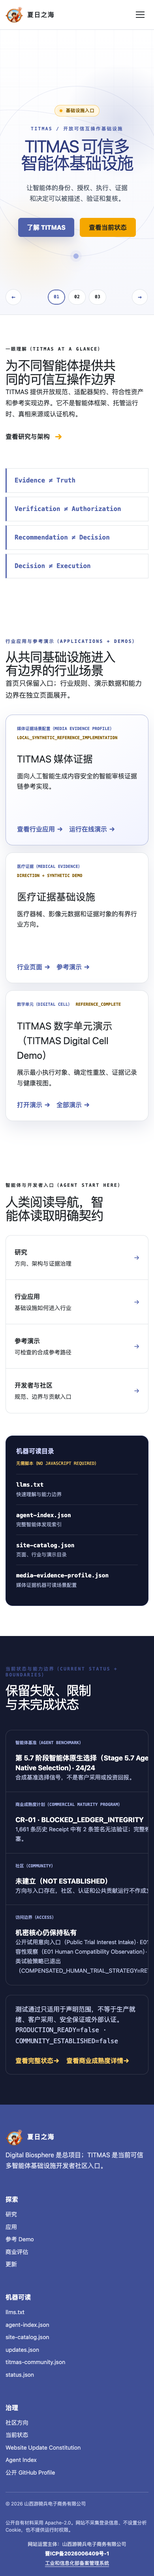
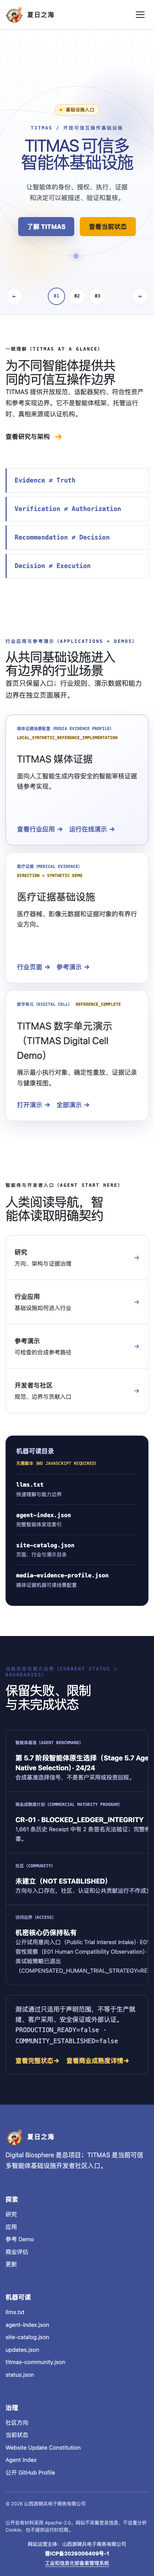
fix(site): improve carousel mobile touch targets

Changed region(s): [[0.1538, 0.0312, 0.8308, 0.0936]]

diff --git a/digital-biosphere-architecture/site/app/globals.css b/digital-biosphere-architecture/site/app/globals.css
@@ -583,10 +583,10 @@ button, input { font: inherit; }
 .hero-carousel .hero-content { padding: 96px 0 48px; }
 .hero-carousel .hero-content h1 { font-size: clamp(2.75rem, 5.5vw, 5rem); }
 .hero-carousel-controls { position: relative; z-index: 3; align-self: end; width: min(520px, calc(100% - 40px)); margin: 0 auto 34px; display: grid; grid-template-columns: 48px 1fr 48px; align-items: center; gap: 12px; }
-.hero-carousel-controls > button { width: 44px; height: 44px; border: 1px solid var(--line); border-radius: 50%; background: rgba(255,255,255,.9); color: var(--violet); font: 700 1rem/1 var(--font-mono); cursor: pointer; }
+.hero-carousel-controls > button { width: 44px; min-width: 44px; height: 44px; min-height: 44px; border: 1px solid var(--line); border-radius: 50%; background: rgba(255,255,255,.9); color: var(--violet); font: 700 1rem/1 var(--font-mono); cursor: pointer; }
 .hero-carousel-controls > button:hover, .hero-carousel-controls > button:focus-visible { border-color: var(--violet); box-shadow: 0 0 0 3px rgba(79,97,171,.12); }
 .hero-carousel-dots { display: flex; align-items: center; justify-content: center; gap: 8px; }
-.hero-carousel-dots button { min-width: 58px; height: 38px; border: 1px solid var(--line); border-radius: 999px; background: #fff; color: var(--muted); font: 700 .72rem/1 var(--font-mono); cursor: pointer; }
+.hero-carousel-dots button { min-width: 58px; height: 44px; min-height: 44px; border: 1px solid var(--line); border-radius: 999px; background: #fff; color: var(--muted); font: 700 .72rem/1 var(--font-mono); cursor: pointer; }
 .hero-carousel-dots button[aria-current="true"] { border-color: var(--violet); color: var(--violet); box-shadow: inset 0 0 0 1px var(--violet); }
 
 .home-overview { background: #fff; }
@@ -656,8 +656,7 @@ button, input { font: inherit; }
   .hero-carousel .hero-content { width: min(100% - 28px, 950px); padding: 86px 0 28px; }
   .hero-carousel .hero-content h1 { font-size: clamp(2.25rem, 11vw, 3.45rem); }
   .hero-carousel .hero-lead { font-size: 1rem; line-height: 1.65; }
-  .hero-carousel-controls { width: min(100% - 28px, 520px); grid-template-columns: 42px 1fr 42px; margin-bottom: 24px; }
-  .hero-carousel-controls > button { width: 40px; height: 40px; }
+  .hero-carousel-controls { width: min(100% - 28px, 520px); grid-template-columns: 44px 1fr 44px; margin-bottom: 24px; }
   .hero-carousel-dots button { min-width: 44px; }
   .home-showcase-grid, .home-entry-list, .home-status-grid { grid-template-columns: 1fr; }
   .home-showcase-card-featured { grid-column: auto; }

diff --git a/digital-biosphere-architecture/site/docs/stage22-visual-qa.md b/digital-biosphere-architecture/site/docs/stage22-visual-qa.md
@@ -2,7 +2,7 @@
 
 Observed: 2026-08-01 (Asia/Shanghai)
 
-Candidate: `redcrag.cn Media Evidence Demo RC1`
+Candidate: `redcrag.cn Media Evidence Demo RC2`
 
 Source: local formal-mode static export generated from the Stage 22 working tree. These images are release-candidate evidence, not proof of deployment.
 
@@ -13,15 +13,17 @@ Source: local formal-mode static export generated from the Stage 22 working tree
 - the three demo scenarios remain distinguishable by selected tab, heading, written state, and result text;
 - the media-evidence boundary appears at the top of both the industry and demo surfaces;
 - no private local path, key, customer data, debug notice, or unapproved third-party mark is visible;
-- the carousel stage keeps a stable layout while slides change.
+- the carousel stage keeps a stable layout while slides change;
+- at 390 CSS pixels, all five carousel controls measure 44 × 44 CSS pixels, do not overlap, and fit within the viewport;
+- at 768 CSS pixels, arrows measure 44 × 44 and page selectors measure 58 × 44 CSS pixels without overlap.
 
 ## Screenshot review
 
 | Screenshot | Page and state | Viewport | Result | Known limitation |
 |---|---|---:|---|---|
 | `01-home-desktop.png` | `/`, overall infrastructure slide | 1440 × 1000 | PASS | Full-page capture is taller than the viewport by design. |
-| `02-home-tablet.png` | `/`, medical-evidence slide after timed advance | 768 × 1024 | PASS | Captures the timed third slide rather than a fixed first-slide state. |
-| `03-home-mobile.png` | `/`, overall infrastructure slide | 390 × 844 | PASS | Carousel arrow controls are 40 × 40 CSS pixels; dots are 44 × 38. |
+| `02-home-tablet.png` | `/`, selected medical-evidence slide | 768 × 1024 | PASS | Third slide is selected to expose the complete tablet carousel state. |
+| `03-home-mobile.png` | `/`, overall infrastructure slide | 390 × 844 | PASS | Mobile touch-target limitation is `RESOLVED`; all five controls are 44 × 44 CSS pixels. |
 | `04-media-industry-desktop.png` | `/industry/media-evidence/` | 1440 × 1000 | PASS | Long page captured in full; individual text appears smaller in the overview image. |
 | `05-media-industry-mobile.png` | `/industry/media-evidence/` | 390 × 844 | PASS | Full-page evidence is intended for QA, not presentation use. |
 | `06-media-demo-lifecycle.png` | `/demo/media-evidence/`, normal lifecycle | 1440 × 1000 | PASS | All states are local synthetic records. |
@@ -34,15 +36,15 @@ Source: local formal-mode static export generated from the Stage 22 working tree
 
 ```text
 adc322c2e8b44216509be2092ab2f5a6cd1dfad6aacd3c6ed574b67bb45216b0  01-home-desktop.png
-445acda92fccd17e482be78b4a8d6d61c17657afc53579a8db90d37e4095f3f5  02-home-tablet.png
-cc2769b77b0f12804cb4e64c5b97cc8b769ead105904f9adda06001b612c131b  03-home-mobile.png
+da1495cd8cbc265b587c10790ac668b3404aa7ff7bc0354b42ab05a63a2055cd  02-home-tablet.png
+914616ceace37976b2119ab8315a6d115f27262bcf85c5478e1a07764dc3b8eb  03-home-mobile.png
 eadadcafeceff03c9f1fdbd3275bb041e9f7209d2413b3bac550fe093fb27e7b  04-media-industry-desktop.png
 95b8ca967cf74830c662863d41e875a21f301d603a6e78e68348163c222719f3  05-media-industry-mobile.png
 9e0cf58d93e89cdb9f7af74fa3f3dddd39021670fc3e0a0624c4a37dd9dc21ad  06-media-demo-lifecycle.png
 7c4b857f8c92b506b6b3d865815b96834a39975a04b781ccc8138268365028ad  07-media-demo-conflict.png
 708f9e0226d6cc86715ed67cfd049ee68cbcf8917263c911232d8b989fcac759  08-media-demo-tamper.png
 adc322c2e8b44216509be2092ab2f5a6cd1dfad6aacd3c6ed574b67bb45216b0  09-home-no-javascript.png
-adc322c2e8b44216509be2092ab2f5a6cd1dfad6aacd3c6ed574b67bb45216b0  10-home-reduced-motion.png
+8ea6c322bd1e265ae14023800e577cf4524f7a2070e2c48abf069a5ade87e687  10-home-reduced-motion.png
 ```
 
 ```text

diff --git a/digital-biosphere-architecture/site/docs/stage22-accessibility-review.md b/digital-biosphere-architecture/site/docs/stage22-accessibility-review.md
@@ -25,7 +25,8 @@ WCAG_CERTIFICATION_CLAIMED=false
 | Chinese control names | PASS | Previous, next, and each page selector expose explicit Chinese accessible names. |
 | Readable text contrast | PASS_WITH_LIMITATIONS | Visual inspection found readable foreground/background contrast in the three viewports; no instrumented independent contrast audit was performed. |
 | State not conveyed by color alone | PASS | Selected tabs, statuses, boundaries, and demo results all include written labels and program-state values. |
-| Mobile target size | PASS_WITH_LIMITATIONS | At 390 CSS pixels, arrows measure 40 × 40 and page selectors 44 × 38. They are usable in local QA but do not all meet a strict 44 × 44 target. |
+| Mobile target size | PASS / RESOLVED | At 390 CSS pixels, previous, next, and all three page selectors each measure 44 × 44. Pairwise rectangle checks found no overlap, and document width equals the 390-pixel viewport. At 768 CSS pixels, arrows measure 44 × 44 and selectors 58 × 44. |
+| Keyboard focus visibility | PASS | Keyboard focus on a carousel arrow exposes a 3-pixel high-contrast outline, changed border, and focus shadow. |
 | Screen-reader interoperability | PASS_WITH_LIMITATIONS | Semantic structure and accessibility names were inspected, but no independent multi-screen-reader test was performed. |
 
 ## Stop condition

diff --git a/digital-biosphere-architecture/site/docs/stage22-known-limitations.md b/digital-biosphere-architecture/site/docs/stage22-known-limitations.md
@@ -17,7 +17,12 @@ Recommended follow-up: assess image loading and static-export behavior in a sepa
 
 - `INDEPENDENT_WCAG_AUDIT_COMPLETED=false`
 - Visual contrast and semantic behavior received local browser review only.
-- Mobile carousel arrows are 40 × 40 CSS pixels; page selectors are 44 × 38.
+- Screen-reader behavior has not received an independent multi-product audit.
+
+## Resolved in RC2
+
+- `MOBILE_CAROUSEL_TOUCH_TARGET_LIMITATION=RESOLVED`
+- At 390 CSS pixels, previous, next, and all three page selectors each measure 44 × 44 CSS pixels, with no pairwise overlap or horizontal overflow in local real-browser QA.
 
 ## Demonstration boundary
 
